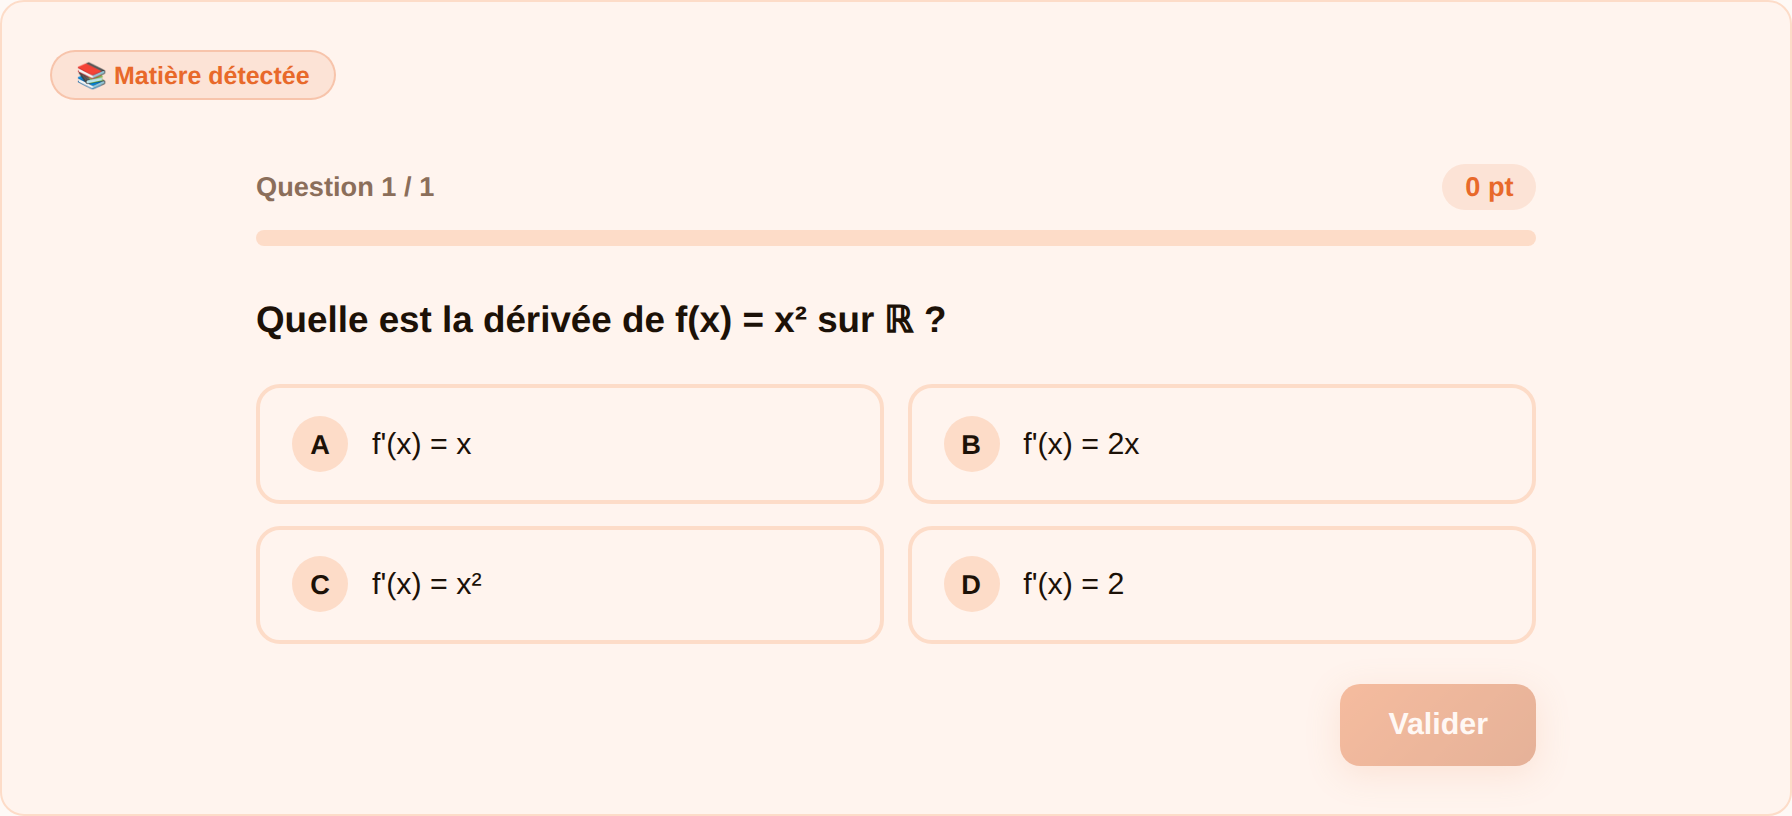
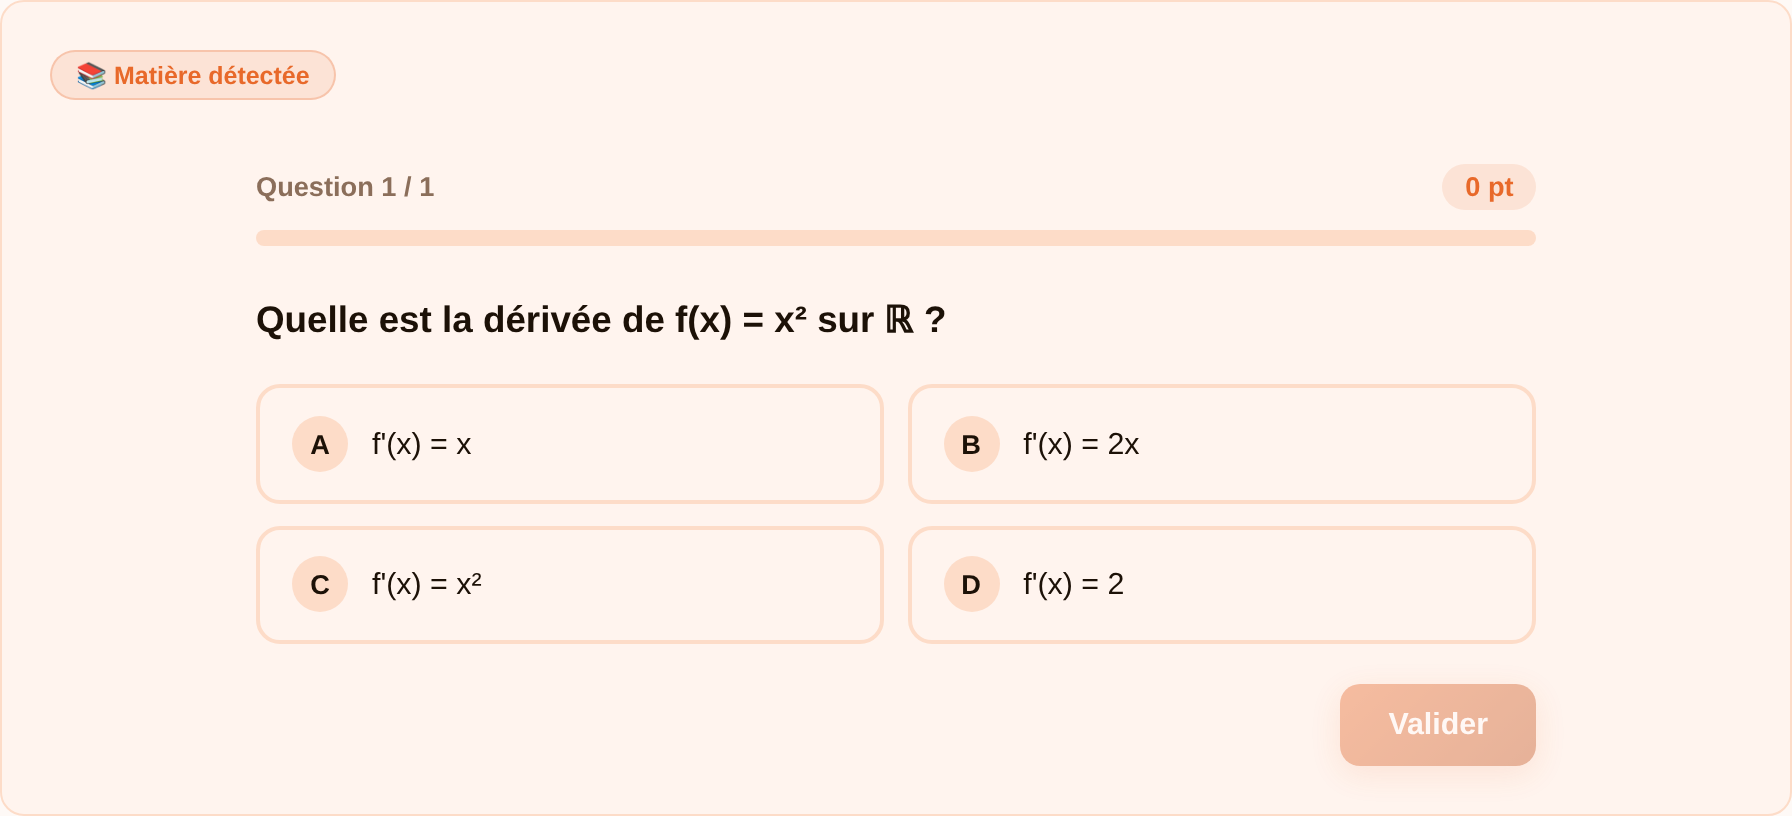
Show the real generation process step by step in the dynamic promo
Capture more real UI states (typing the letter form fields, the loading
spinner, pasting a course with code into the study generator, and
selecting quiz options before validating) and replace the single
before/after hard-cut with a multi-step laptop scene that walks through
each state with its own cursor move + caption, so the video shows the
letter and quiz actually being produced rather than jumping straight to
the result.

diff --git a/video-promo/src/LettrePro/Dynamic.tsx b/video-promo/src/LettrePro/Dynamic.tsx
@@ -1,41 +1,112 @@
 import { AbsoluteFill, Sequence } from "remotion";
 import { GlowBackground } from "./GlowBackground";
 import { LogoGlowIntro } from "./LogoGlowIntro";
-import { LaptopScene } from "./LaptopScene";
+import { MultiStepLaptopScene } from "./MultiStepLaptopScene";
 import { CtaGlowOutro } from "./CtaGlowOutro";
+
+const LOGO_FRAMES = 55;
+const LETTER_STEP_FRAMES = 30;
+const LETTER_STEPS = 4;
+const STUDY_STEP_FRAMES = 30;
+const STUDY_STEPS = 3;
+const QUIZ_STEP_FRAMES = 28;
+const QUIZ_STEPS = 4;
+const CTA_FRAMES = 70;
+
+const LETTER_FROM = LOGO_FRAMES - 5;
+const STUDY_FROM = LETTER_FROM + LETTER_STEP_FRAMES * LETTER_STEPS;
+const QUIZ_FROM = STUDY_FROM + STUDY_STEP_FRAMES * STUDY_STEPS;
+const CTA_FROM = QUIZ_FROM + QUIZ_STEP_FRAMES * QUIZ_STEPS;
+const TOTAL_FRAMES = CTA_FROM + CTA_FRAMES;
+
+export const dynamicDuration = TOTAL_FRAMES;
 
 export const Dynamic: React.FC = () => {
   return (
     <AbsoluteFill>
       <GlowBackground />
 
-      <Sequence from={0} durationInFrames={55}>
+      <Sequence from={0} durationInFrames={LOGO_FRAMES}>
         <LogoGlowIntro tagline="Candidatures & révisions, boostées par l'IA" />
       </Sequence>
 
-      <Sequence from={50} durationInFrames={90}>
-        <LaptopScene
-          beforeSrc="screenshots/generator-empty.png"
-          afterSrc="screenshots/generator-filled.png"
-          beforeCaption="Décris ton profil"
-          afterCaption="Ta lettre, prête ✅"
-          cutAt={38}
-          duration={90}
+      <Sequence from={LETTER_FROM} durationInFrames={LETTER_STEP_FRAMES * LETTER_STEPS}>
+        <MultiStepLaptopScene
+          stepFrames={LETTER_STEP_FRAMES}
+          steps={[
+            {
+              src: "screenshots/generator-poste.png",
+              caption: "Décris ton poste...",
+              cursor: { from: { x: 55, y: 55 }, to: { x: 75, y: 29 } },
+            },
+            {
+              src: "screenshots/generator-full.png",
+              caption: "...et ton profil ✍️",
+              cursor: { from: { x: 60, y: 60 }, to: { x: 16, y: 90 } },
+            },
+            {
+              src: "screenshots/generator-loading.png",
+              caption: "L'IA rédige ta lettre...",
+            },
+            {
+              src: "screenshots/generator-result.png",
+              caption: "Ta lettre, prête ✅",
+              cursor: { from: { x: 30, y: 30 }, to: { x: 7, y: 12 } },
+            },
+          ]}
         />
       </Sequence>
 
-      <Sequence from={140} durationInFrames={90}>
-        <LaptopScene
-          beforeSrc="screenshots/quiz-question.png"
-          afterSrc="screenshots/quiz-correct.png"
-          beforeCaption="Un quiz sur ton cours 📚"
-          afterCaption="Bonne réponse ✅"
-          cutAt={38}
-          duration={90}
+      <Sequence from={STUDY_FROM} durationInFrames={STUDY_STEP_FRAMES * STUDY_STEPS}>
+        <MultiStepLaptopScene
+          stepFrames={STUDY_STEP_FRAMES}
+          steps={[
+            {
+              src: "screenshots/study-blank.png",
+              caption: "Colle ton cours...",
+              cursor: { from: { x: 20, y: 20 }, to: { x: 50, y: 40 } },
+            },
+            {
+              src: "screenshots/study-typed.png",
+              caption: "...même du code 💻",
+              cursor: { from: { x: 55, y: 60 }, to: { x: 18, y: 93 } },
+            },
+            {
+              src: "screenshots/study-loading.png",
+              caption: "Le quiz se génère...",
+            },
+          ]}
         />
       </Sequence>
 
-      <Sequence from={230} durationInFrames={70}>
+      <Sequence from={QUIZ_FROM} durationInFrames={QUIZ_STEP_FRAMES * QUIZ_STEPS}>
+        <MultiStepLaptopScene
+          stepFrames={QUIZ_STEP_FRAMES}
+          steps={[
+            {
+              src: "screenshots/quiz-question.png",
+              caption: "À toi de jouer 🎯",
+              cursor: { from: { x: 45, y: 25 }, to: { x: 28, y: 55 } },
+            },
+            {
+              src: "screenshots/quiz-select-a.png",
+              caption: "f'(x) = x ?",
+              cursor: { from: { x: 28, y: 30 }, to: { x: 72, y: 55 } },
+            },
+            {
+              src: "screenshots/quiz-select-b.png",
+              caption: "Plutôt 2x !",
+              cursor: { from: { x: 72, y: 30 }, to: { x: 82, y: 85 } },
+            },
+            {
+              src: "screenshots/quiz-correct.png",
+              caption: "Bonne réponse ✅",
+            },
+          ]}
+        />
+      </Sequence>
+
+      <Sequence from={CTA_FROM} durationInFrames={CTA_FRAMES}>
         <CtaGlowOutro headline="Essaie-la gratuitement" subtext="Lettres, quiz, fiches et profs — sur lettrepro.app" />
       </Sequence>
     </AbsoluteFill>

diff --git a/video-promo/src/LettrePro/MultiStepLaptopScene.tsx b/video-promo/src/LettrePro/MultiStepLaptopScene.tsx
@@ -1,0 +1,73 @@
+import { AbsoluteFill, interpolate, Sequence, useCurrentFrame } from "remotion";
+import { LaptopMockup } from "./LaptopMockup";
+import { KineticCaption } from "./KineticCaption";
+import { Cursor } from "./Cursor";
+
+export type LaptopStep = {
+  src: string;
+  caption: string;
+  cursor?: { from: { x: number; y: number }; to: { x: number; y: number } };
+};
+
+const StepFrame: React.FC<{ step: LaptopStep; isFirst: boolean; stepFrames: number }> = ({
+  step,
+  isFirst,
+  stepFrames,
+}) => {
+  const frame = useCurrentFrame();
+
+  const punch = interpolate(frame, [0, 8], [isFirst ? 1 : 1.07, 1], {
+    extrapolateLeft: "clamp",
+    extrapolateRight: "clamp",
+  });
+  const flash = isFirst
+    ? 0
+    : interpolate(frame, [0, 10], [0.5, 0], { extrapolateLeft: "clamp", extrapolateRight: "clamp" });
+  const entryOpacity = isFirst
+    ? interpolate(frame, [0, 10], [0, 1], { extrapolateLeft: "clamp", extrapolateRight: "clamp" })
+    : 1;
+
+  return (
+    <AbsoluteFill style={{ justifyContent: "center", alignItems: "center" }}>
+      <KineticCaption text={step.caption} from={2} to={stepFrames - 6} />
+
+      <div
+        style={{
+          position: "relative",
+          transform: `scale(${punch})`,
+          opacity: entryOpacity,
+          marginTop: 60,
+        }}
+      >
+        <LaptopMockup src={step.src} />
+        {step.cursor && (
+          <Cursor
+            fromX={step.cursor.from.x}
+            fromY={step.cursor.from.y}
+            toX={step.cursor.to.x}
+            toY={step.cursor.to.y}
+            travelStart={8}
+            clickAt={stepFrames - 16}
+          />
+        )}
+      </div>
+
+      <AbsoluteFill style={{ backgroundColor: "#fff", opacity: flash, pointerEvents: "none" }} />
+    </AbsoluteFill>
+  );
+};
+
+export const MultiStepLaptopScene: React.FC<{ steps: LaptopStep[]; stepFrames: number }> = ({
+  steps,
+  stepFrames,
+}) => {
+  return (
+    <>
+      {steps.map((step, i) => (
+        <Sequence key={i} from={i * stepFrames} durationInFrames={stepFrames}>
+          <StepFrame step={step} isFirst={i === 0} stepFrames={stepFrames} />
+        </Sequence>
+      ))}
+    </>
+  );
+};

diff --git a/video-promo/scripts/capture-screenshots.js b/video-promo/scripts/capture-screenshots.js
@@ -29,6 +29,15 @@ Je me tiens à votre disposition pour un entretien et vous prie d'agréer, Madam
 
 Léa`;
 
+const SAMPLE_COURSE = `Chapitre 3 — Fonctions et dérivées (Python + Maths)
+
+def derivee(f, x, h=1e-6):
+    return (f(x + h) - f(x - h)) / (2 * h)
+
+Une fonction f est dérivable en x si sa dérivée f'(x) existe.
+Règle : la dérivée de x^n est n * x^(n-1).
+Exemple : f(x) = x^2 → f'(x) = 2x`;
+
 const QUIZ = {
   questions: [
     {
@@ -58,11 +67,9 @@ async function run() {
   // Some sandboxes only allow a pre-installed Playwright browser; use it when
   // present, otherwise fall back to Playwright's own (downloaded) browser.
   const sandboxChrome = "/opt/pw-browsers/chromium-1194/chrome-linux/chrome";
-  const browser = await chromium.launch(
-    existsSync(sandboxChrome) ? { executablePath: sandboxChrome } : {},
-  );
+  const browser = await chromium.launch(existsSync(sandboxChrome) ? { executablePath: sandboxChrome } : {});
 
-  // ---------- Generator: empty form + generated letter ----------
+  // ---------- Letter generator: fill in steps, loading, result ----------
   {
     const page = await browser.newPage({ viewport: { width: 1180, height: 1000 }, deviceScaleFactor: 2 });
     await mockBackend(page);
@@ -75,23 +82,36 @@ async function run() {
     );
     await page.goto(SITE + "/dashboard.html", { waitUntil: "networkidle" });
     await page.waitForSelector("#g-poste", { state: "visible", timeout: 15000 });
+    const genCard = page.locator("#page-generate .gen-card");
 
     await page.fill("#g-poste", "Stage développeur web");
+    await genCard.screenshot({ path: OUT_DIR + "/generator-poste.png" });
+
     await page.fill("#g-entreprise", "Capgemini");
     await page.fill(
       "#g-profil",
       "Étudiant en BUT Informatique 2e année, passionné de développement web, React et Python...",
     );
-    await page.locator(".gen-card").first().screenshot({ path: OUT_DIR + "/generator-empty.png" });
+    await genCard.screenshot({ path: OUT_DIR + "/generator-full.png" });
+
+    await page.evaluate(() => {
+      document.getElementById("gen-btn").disabled = true;
+      document.getElementById("loading").classList.add("visible");
+    });
+    await genCard.screenshot({ path: OUT_DIR + "/generator-loading.png" });
+    await page.evaluate(() => {
+      document.getElementById("gen-btn").disabled = false;
+      document.getElementById("loading").classList.remove("visible");
+    });
 
     await page.click("#gen-btn");
     await page.waitForSelector("#result-card.visible", { timeout: 15000 });
     await page.waitForTimeout(300);
-    await page.locator("#result-card").screenshot({ path: OUT_DIR + "/generator-filled.png" });
+    await page.locator("#result-card").screenshot({ path: OUT_DIR + "/generator-result.png" });
     await page.close();
   }
 
-  // ---------- Quiz: question + correct answer revealed ----------
+  // ---------- Study: paste course, loading, then quiz question states ----------
   {
     const page = await browser.newPage({ viewport: { width: 1180, height: 1000 }, deviceScaleFactor: 2 });
     await mockBackend(page);
@@ -99,22 +119,42 @@ async function run() {
     await page.waitForSelector("#g-poste", { state: "visible", timeout: 15000 });
 
     await page.click('[data-page="study"]');
-    await page.waitForSelector("#study-result-card", { state: "attached", timeout: 15000 });
+    await page.waitForSelector("#study-cours", { state: "visible", timeout: 15000 });
+    const studyCard = page.locator("#study-generate .gen-card");
 
+    await studyCard.screenshot({ path: OUT_DIR + "/study-blank.png" });
+
+    await page.fill("#study-cours", SAMPLE_COURSE);
+    await studyCard.screenshot({ path: OUT_DIR + "/study-typed.png" });
+
+    await page.evaluate(() => {
+      document.getElementById("study-btn").disabled = true;
+      document.getElementById("study-loading").classList.add("visible");
+    });
+    await studyCard.screenshot({ path: OUT_DIR + "/study-loading.png" });
+
+    // ---- quiz question: unanswered, option A selected, option B selected, validated ----
+    await page.waitForSelector("#study-result-card", { state: "attached", timeout: 15000 });
     await page.evaluate((quiz) => {
       document.getElementById("study-result-card").classList.add("visible");
       document.getElementById("study-result-panels").innerHTML = renderQuizHTML(quiz, null);
       renderQuestion();
     }, QUIZ);
-    await page.waitForTimeout(200);
+    await page.waitForTimeout(150);
     await page.locator("#study-result-card").screenshot({ path: OUT_DIR + "/quiz-question.png" });
 
-    await page.evaluate(() => {
-      selectOption(1);
-      validateAnswer();
-    });
-    await page.waitForTimeout(200);
+    await page.evaluate(() => selectOption(0));
+    await page.waitForTimeout(150);
+    await page.locator("#study-result-card").screenshot({ path: OUT_DIR + "/quiz-select-a.png" });
+
+    await page.evaluate(() => selectOption(1));
+    await page.waitForTimeout(150);
+    await page.locator("#study-result-card").screenshot({ path: OUT_DIR + "/quiz-select-b.png" });
+
+    await page.evaluate(() => validateAnswer());
+    await page.waitForTimeout(150);
     await page.locator("#study-result-card").screenshot({ path: OUT_DIR + "/quiz-correct.png" });
+
     await page.close();
   }
 

diff --git a/video-promo/src/LettrePro/Showcase.tsx b/video-promo/src/LettrePro/Showcase.tsx
@@ -24,8 +24,8 @@ export const Showcase: React.FC = () => {
         <FadeIn>
           <ShowcaseScene
             caption="Ta lettre de motivation, générée par l'IA"
-            beforeSrc="screenshots/generator-empty.png"
-            afterSrc="screenshots/generator-filled.png"
+            beforeSrc="screenshots/generator-full.png"
+            afterSrc="screenshots/generator-result.png"
             cursorFrom={{ x: 60, y: 70 }}
             cursorTo={{ x: 16, y: 88 }}
           />

diff --git a/video-promo/src/Root.tsx b/video-promo/src/Root.tsx
@@ -3,7 +3,7 @@ import { Composition } from "remotion";
 import { Promo } from "./LettrePro/Promo";
 import { CoursPromo } from "./LettrePro/CoursPromo";
 import { Showcase } from "./LettrePro/Showcase";
-import { Dynamic } from "./LettrePro/Dynamic";
+import { Dynamic, dynamicDuration } from "./LettrePro/Dynamic";
 
 export const RemotionRoot: React.FC = () => {
   return (
@@ -12,7 +12,7 @@ export const RemotionRoot: React.FC = () => {
         // npx remotion render LettreProDynamic
         id="LettreProDynamic"
         component={Dynamic}
-        durationInFrames={300}
+        durationInFrames={dynamicDuration}
         fps={30}
         width={1080}
         height={1920}